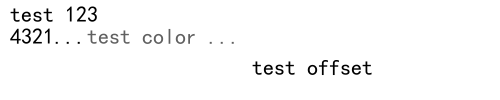
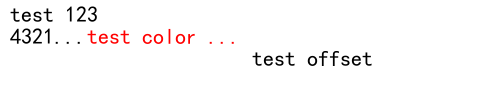
Fix: color use rgba

Changed region(s): [[0.48, 0.51, 0.75, 0.75], [0.15, 0.3, 0.39, 0.45], [0.42, 0.42, 0.48, 0.45]]

diff --git a/backGround.go b/backGround.go
@@ -6,9 +6,9 @@ import (
 	"image/draw"
 )
 
-func NewBackGroundWithColor(width, height int, _16bit_color uint16) *image.RGBA {
+func NewBackGroundWithColor(width, height int, color color.RGBA) *image.RGBA {
 	rgba := image.NewRGBA(image.Rect(0, 0, width, height))
-	draw.Draw(rgba, rgba.Bounds(), image.NewUniform(color.Gray16{_16bit_color}), image.Point{}, draw.Src)
+	draw.Draw(rgba, rgba.Bounds(), image.NewUniform(color), image.Point{}, draw.Src)
 	return rgba
 }
 

diff --git a/draw.go b/draw.go
@@ -9,9 +9,9 @@ import (
 	"golang.org/x/image/math/fixed"
 )
 
-func (p *picture) DrawWithColor(_16bit_color uint16, text string) *picture {
+func (p *picture) DrawWithColor(color color.RGBA, text string) *picture {
 	// font color
-	p.c.SetSrc(image.NewUniform(color.Gray16{_16bit_color}))
+	p.c.SetSrc(image.NewUniform(color))
 
 	face := truetype.NewFace(p.font, &truetype.Options{Size: p.fontSize, DPI: p.dpi})
 

diff --git a/README.md b/README.md
@@ -6,7 +6,6 @@ package main
 import (
 	"bytes"
 	"fmt"
-	"image"
 	"image/color"
 	"io"
 	"os"
@@ -17,7 +16,7 @@ import (
 func main() {
 	pic := text2picture.NewPictureWithBackGround(text2picture.NewWhiteBackGround(500, 100), 320, 10, 5)
 	pic.DrawWithBlack("test 123\n4321...")
-	pic.DrawWithColor(0x60f2, "test color ... ")
+	pic.DrawWithColor(color.RGBA{255, 0, 0, 255}, "test color ... ")
 	pic.PointOffset(0, 5)
 	pic.DrawWithBlack("test offset\n")
 	f, err := os.OpenFile("./test.png", os.O_CREATE|os.O_WRONLY|os.O_TRUNC, os.ModePerm)
